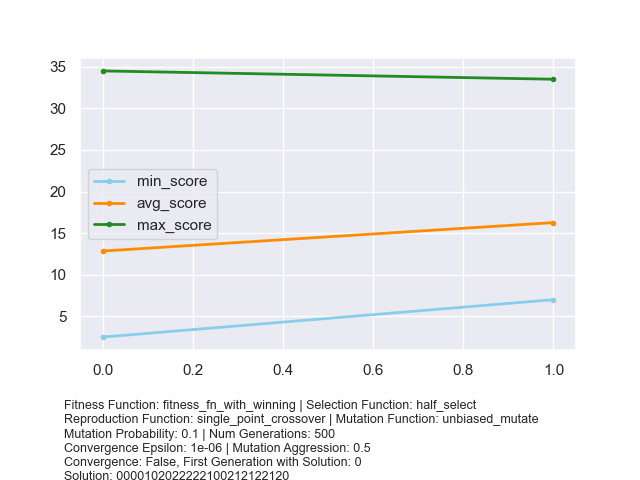
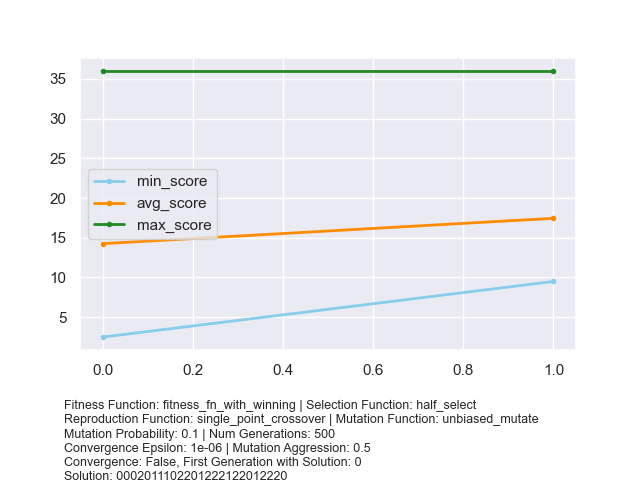
add readme and docs

diff --git a/README.md b/README.md
@@ -1,0 +1,81 @@
+## Super Mario Agents with Genetics Algorithms
+
+This project implements evolutionary algorithms from scratch to create an intelligent AI agent for a simplified version
+of the Super Mario game. The complete description of the project can be found in the [docs](./docs) folder in Persian.
+
+### The Problem
+
+In-game environments where there is no training data, evolutionary algorithms can be used to train AI agents to play a
+game. This project is based on a very simple game that mimics the basic behavior of the Super Mario game.
+
+### The Project
+
+#### Input Format
+
+Each level of the game is represented by a string, like the one below:
+
+```
+"_ _ _ _ G _ M L _ _ G _"
+```
+
+Where `G` represents a ground enemy (Goomba), `L` represents an aerial enemy (Lakitu), and `M` represents the target
+objects (Mushrooms). The agent should avoid the enemies and catch the target objects. The graphical figure for this
+example level can be seen in Figure 1.
+
+At each time step, the agent can take one of these three actions:
+
+- 0: Go right
+- 1: Jump and go right
+- 2: Bend and go right
+
+The movement of an agent is represented by a sequence of these actions. An example solution for the above problem is the
+sequence below:
+
+```
+000100201000
+```
+
+#### Implementation
+
+1. **Initial Population**: A population of 200 chromosomes with random action (genomes) sequences are initialized.
+2. **Fitness Measurement**: The fitness of each chromosome is a weighted score of its achievements. Factors such as
+   whether the agent has finished the level, how far it has progressed in the level, the number of mushrooms it has
+   eaten, and the number of enemies it has killed all contribute to its final fitness score, with different weights. A
+   penalty for useless moves (jumping/bending when there is no need to do so) can also be factored in. This measurement
+   is implemented in the `fitness_fn_with_winning` and `fitness_fn_without_winning` functions.
+3. **Selection**: The chromosomes are sorted according to their fitness value, and the top 50% are selected for the next
+   step (`half_select`). An additional weighted selection is also implemented (`weighted_select`), where chromosomes
+   with higher fitness are more likely to be selected.
+4. **Reproduction**: Single-point and two-point crossover are implemented to combine two chromosomes and generate a new
+   one (`single_point_crossover` and `two_point_crossover`).
+5. **Mutation**: With a probability of 0.2, some actions (genomes) of each chromosome are switched randomly, which may
+   increase or decrease its performance.
+
+A generic class named `GeneticSolver` is defined to implement these five
+steps ([genetic_solver.py](src/genetic_solver.py)). All steps, such as reproduction and
+mutation, are pluggable. Therefore, you can pass your own custom function for reproduction or other steps to this class.
+As another example, you can pass in the arguments for population size and mutation probability.
+
+### Results
+
+In the following plots, two different setups of the genetic algorithm are compared to each other for multiple game
+environments.
+
+|              Setup 1               |              Setup 2               |
+|:----------------------------------:|:----------------------------------:|
+| ![Setup_1](docs/level9_setup1.png) | ![Setup_2](docs/level9_setup2.png) |
+
+![Example Level](docs/example_level.png)
+Figure 1
+
+### Credits
+
+A slightly modified version of the game2dboard library will be used in this project for the GUI.
+
+### Course Information
+
+- **Course**: Artificial Intelligence
+- **University**: Amirkabir University of Technology
+- **Semester**: Fall 2021
+
+Let me know if you have any questions.
